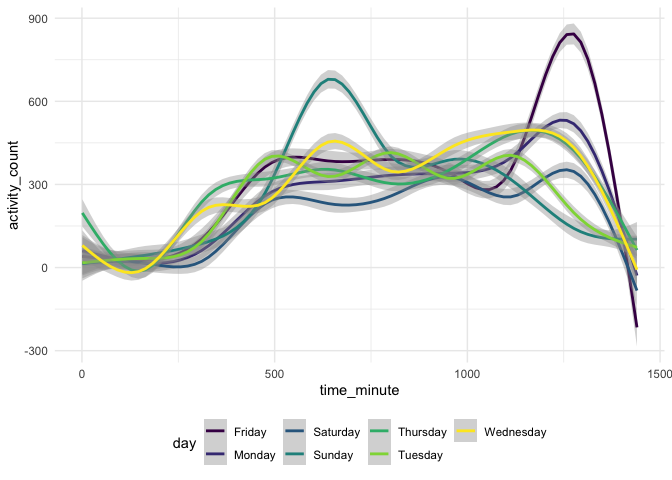
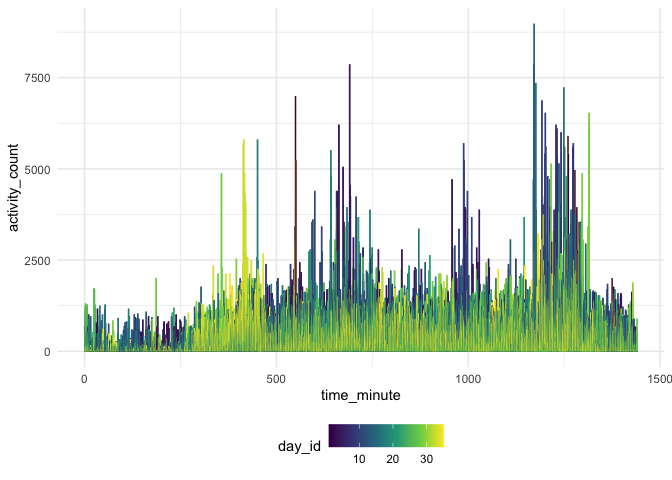
worked on plots not well, q2 accel plot slight changes, q3 hex plot difficulties, q3 ridge plot complete

diff --git a/p8105_hw3_kdh2140.md b/p8105_hw3_kdh2140.md
@@ -7,6 +7,9 @@ homework.
 
 ``` r
 library(tidyverse)
+library(ggplot2)
+library(ggridges)
+library(patchwork)
 
 theme_set(theme_minimal() + theme(legend.position = "bottom"))
 
@@ -286,12 +289,23 @@ Trends identified by viewing the table include:
 
 ``` r
 accel %>% 
-  group_by(day_id) %>% 
+  group_by(day, week) %>% 
+  ggplot(aes(x = time_minute, y = activity_count, color = day_id)) +
+  geom_line()
+```
+
+![](p8105_hw3_kdh2140_files/figure-gfm/activity_plot-1.png)<!-- -->
+
+I believe this is the plot you want. It is not very readable.
+
+``` r
+accel %>% 
+  group_by(day, week) %>% 
   ggplot(aes(x = time_minute, y = activity_count, color = day)) +
   geom_smooth()
 ```
 
-![](p8105_hw3_kdh2140_files/figure-gfm/activity_plot-1.png)<!-- -->
+![](p8105_hw3_kdh2140_files/figure-gfm/activity_plot_nice-1.png)<!-- -->
 
 This is not the plot you want but i think it looks nice.
 
@@ -379,13 +393,57 @@ NYS.
 ``` r
 ny_noaa_df %>% 
   filter(month == c(01, 06)) %>% 
-  group_by(id, month) %>% 
-  mutate(mean_tmax = mean(tmax)) %>% 
-  drop_na(mean_tmax) %>% 
+  group_by(id, year, month) %>% 
+  summarize(mean_tmax = mean(tmax)) %>% 
   ggplot(aes(x = year, y = mean_tmax, color = id)) + 
-  geom_line()
+  geom_point() +
+  geom_line() +
+  theme(legend.position = "none") +
+  facet_grid(. ~ month) +
+  theme(axis.text.x = element_text(angle = 90, vjust = 0.5, hjust = 1))
 ```
+
+    ## `summarise()` regrouping output by 'id', 'year' (override with `.groups` argument)
+
+    ## Warning: Removed 6803 rows containing missing values (geom_point).
+
+    ## Warning: Removed 6803 row(s) containing missing values (geom_path).
+
+    ## geom_path: Each group consists of only one observation. Do you need to adjust
+    ## the group aesthetic?
+
+    ## geom_path: Each group consists of only one observation. Do you need to adjust
+    ## the group aesthetic?
 
 ![](p8105_hw3_kdh2140_files/figure-gfm/unnamed-chunk-3-1.png)<!-- -->
 
+``` r
+  # Note: legend
+```
+
 ##### Make a two-panel plot showing (i) tmax vs tmin for the full dataset (note that a scatterplot may not be the best option); and (ii) make a plot showing the distribution of snowfall values greater than 0 and less than 100 separately by year.
+
+``` r
+  ny_noaa_df %>% 
+  drop_na(tmax, tmin) %>% 
+  ggplot(aes(x = tmax, y = tmin)) + 
+  geom_point()
+```
+
+![](p8105_hw3_kdh2140_files/figure-gfm/unnamed-chunk-4-1.png)<!-- -->
+
+``` r
+## need to change to geom_hex
+```
+
+ny\_noaa\_df %\>% drop\_na(tmax, tmin) %\>% ggplot(aes(x =
+as.numeric(tmax), y = as.numeric(tmin))) + geom\_hex()
+
+``` r
+snow_plot = 
+  ny_noaa_df %>% 
+  filter(snow > 0) %>% 
+  filter(snow < 100) %>% 
+  ggplot(aes(x = snow, y = as.factor(year))) +
+  geom_density_ridges()
+```
